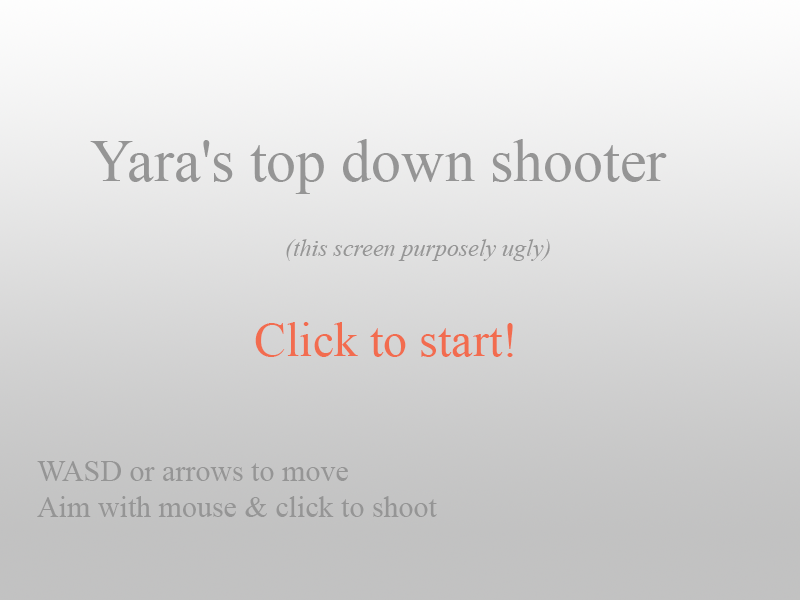
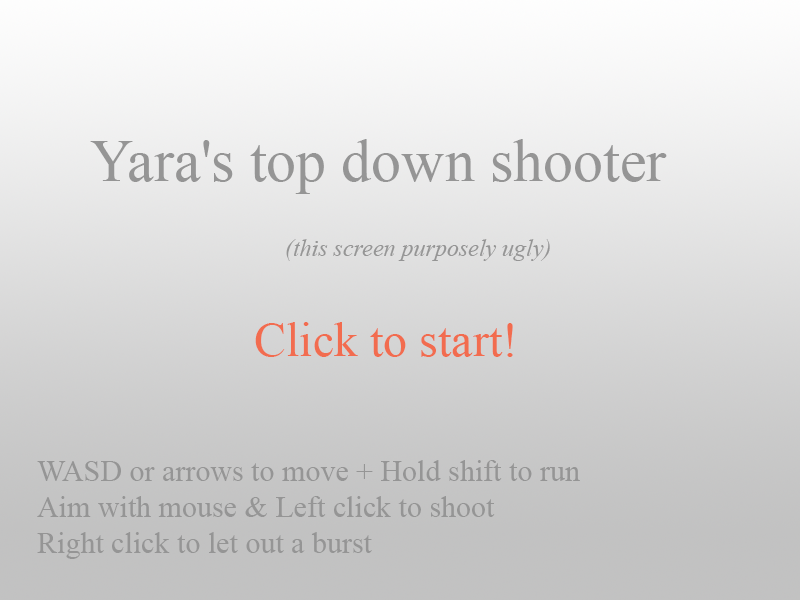
Added Mind Blast spell

Changed region(s): [[0.3438, 0.75, 0.7188, 0.87], [0.0312, 0.9, 0.4688, 0.93]]

diff --git a/js/spell.js b/js/spell.js
@@ -4,47 +4,16 @@
 window.Spell = (function(){
 
 	function Spell(main, game){
-		// Phaser.Sprite.call(this, game, x, y, 'fire1s');
-
 		this.fireRate = 100;
 		this.nextFire = 0;
 		this.cost = 10;
-
 		this.main = main;
-    	// this.anchor.setTo(0.5, 0.5);
-    	// this.game.physics.arcade.enableBody(this);
-    	// this.outOfBoundsKill = true;
-    	// this.checkWorldBounds = true;
-
-    	// Commented out code from when I was trying to use emitters.
-    	// Leaving this here because I still intend to go back to it
-
-		// this.emitter = this.game.add.emitter(0, 0, 100);
-		// this.addChild(this.emitter);
-		// this.emitter.makeParticles(['fire1', 'fire2', 'fire3']);
-		// this.speed = 500;
-		// this.emitter.lifespan = 500;
-		// this.emitter.width = 32;
-		// this.emitter.gravity = 200;
-		// this.emitter.setAlpha(1, 0, 3000);
-		// this.emitter.setScale(0.2, 1, 0.2, 1, 3000);
-		// this.emitter.start(false, 3000, 5);
-
-		// this.emitter.minParticleSpeed = new Phaser.Point(50,50);
-		// this.emitter.maxParticleSpeed = new Phaser.Point(100,50);
-
-		// this.emitter.start(false, 3000, 5);
-
-    	// this.kill();
 	}
-
-	// Spell.prototype = Object.create(Phaser.Sprite.prototype);
-	// Spell.prototype.constructor = Spell;
 
 	//To be overwritten by extended class
 	//This is the specific implementation for each spell. 
 	//For example, the Magic Dart spell will take one shot from its pool and fire it,
-	//while the mind blast spell will have its particle emitter explode
+	//while the Mind Blast spell will have its particle emitter explode
 	Spell.prototype.fireSpell = function(){ }
 
 	//Spell-specific method that checks for collisions, etc
@@ -56,52 +25,12 @@ window.Spell = (function(){
 	//Generic firing method, checks if the spell can be used according to its fire rate then leaves the rest up to the specific implementation
 	//Returns the spell cost if it was successfully cast, and 0 if it failed for one or another reason
 	Spell.prototype.fire = function(x, y){
-		// this.emitter.callAllExists("kill", true);
-		// this.reset(x, y);
-		// 	// this.emitter.at(this);
-
-		// this.rotation = this.game.physics.arcade.moveToPointer(this, 500, this.game.input.activePointer) + Math.PI;
-		// // var vel = this.body.velocity;
-		// var vel = this.game.physics.arcade.velocityFromRotation(this.body.rotation, 500) + this.body.position;
-		// // var vel = new Phaser.Point(this.body.velocity.x, this.body.velocity.y);
-		// // vel += this.position;
-
- 	// 	vel.normalize();
-		// this.emitter.minParticleSpeed = new Phaser.Point(-100*vel.x, -100*vel.y);
-		// this.emitter.maxParticleSpeed = new Phaser.Point(-200*vel.x, -200*vel.y);
-		// this.emitter.start(false, 3000, 5);
-		if(this.main.game.time.now > this.nextFire && this.shots.countDead() > 0){
+		if(this.main.game.time.now > this.nextFire){
 			this.nextFire = this.main.game.time.now + this.fireRate;
 			return (this.fireSpell());
-			// this.shots.getFirstExists(false).fire(this.x, this.y);
-			// this.manaBar.updateValue(-10);
-			// this.updateMana(-10);
-
 		}
 		else return 0;
-
 	}
-
-
-	// Spell.prototype.update = function(){
-		// this.emitter.minParticleSpeed = new Phaser.Point(50,50);
-		// this.emitter.maxParticleSpeed = new Phaser.Point(100,50);
-		// var vel = this.game.physics.arcade.velocityFromRotation(this.rotation, 500) + this.position;
-
-		// // var vel = this.game.physics.arcade.velocityFromRotation(this.body.rotation, 500) + this.body.position;
-		// var vel = this.body.velocity;
-		// this.emitter.setXSpeed(-vel.x*20, -vel.x*30);
-		// this.emitter.setYSpeed(-vel.y*20, -vel.y*30);
-
-		// // this.emitter.setXSpeed(-vel.x, -vel.x*2);
-		// // this.emitter.setYSpeed(-vel.y, -vel.y*2);
-		
-
-		// this.emitter.at(this);
-
-			// this.emitter.minParticleSpeed = new Phaser.Point(50,50);
-		// this.emitter.maxParticleSpeed = new Phaser.Point(100,50);
-	// }
 
 	return Spell;
 

diff --git a/js/mindBlast.js b/js/mindBlast.js
@@ -1,0 +1,55 @@
+"use strict";
+
+//MindBlast class is a quick AoE spell centered around the player
+window.MindBlast = (function(){
+
+	function MindBlast(main, game){
+		Spell.call(this, game);
+
+		this.fireRate = 300;
+		this.nextFire = 0;
+		this.cost = 20;
+		this.speed = 500;
+
+		this.main = main;
+		this.game = game;
+
+		//Create emitter
+		this.emitter = this.game.add.emitter(0, 0, 100);
+		this.emitter.makeParticles(['fire1', 'fire2', 'fire3']);
+		this.emitter.gravity = 0;
+		this.emitter.setAlpha(1, 0, 3000);
+		this.emitter.setScale(0.2, 0.5, 0.2, 0.5, 1000);
+
+		this.emitter.minParticleSpeed = new Phaser.Point(-250,-250);
+		this.emitter.maxParticleSpeed = new Phaser.Point(250,250);
+
+		
+	}
+
+	MindBlast.prototype = Object.create(Spell.prototype);
+	MindBlast.prototype.constructor = MindBlast;
+
+	MindBlast.prototype.fireSpell = function(x, y){
+		this.emitter.x = this.main.player.position.x ;
+		this.emitter.y = this.main.player.position.y ;
+		this.emitter.explode(350, 100);
+		return this.cost;
+	}
+
+	MindBlast.prototype.update = function(){
+		this.game.physics.arcade.collide(this.emitter, this.main.enemies, this.particleHitEnemy, this.main.isEnemyDead, this);
+
+	}
+
+	MindBlast.prototype.particleHitEnemy = function(_part, _enemy){
+		_enemy.fadeout();
+		this.main.score += 3;
+		this.main.updateScore();
+	}
+
+	Spell.prototype.resetGame = function(){ 
+	}
+	return MindBlast;
+
+}());

diff --git a/js/player.js b/js/player.js
@@ -7,9 +7,10 @@ window.Player = (function(){
 		this.main = main;
 		this.shots = shots;
 		this.speed = 200;
-		this.rightSpell;
 		this.magicDart = new MagicDart(this.main, this.game);
+		this.mindBlast = new MindBlast(this.main, this.game);
 		this.leftSpell = this.magicDart;
+		this.rightSpell = this.mindBlast;
 		this.maxMana = 100;
 		this.manaRegenRate = 2;
 		this.mana = this.maxMana;
@@ -43,11 +44,16 @@ window.Player = (function(){
 
         this.rotation = Math.PI/2 + this.game.physics.arcade.angleToPointer(this);
 
-        if(this.game.input.activePointer.isDown){
+        if(this.game.input.activePointer.leftButton.isDown){
         	this.fire(this.leftSpell);
+        }
+        if(this.game.input.activePointer.rightButton.isDown){
+        	this.fire(this.rightSpell);
+        	// console.log("right");
         }
 
         this.leftSpell.update();
+        this.rightSpell.update();
 	}
 
 	Player.prototype.fire = function(spell){

diff --git a/js/main.js b/js/main.js
@@ -48,6 +48,8 @@ app.main = {
 		//Pause game if window loses focus
 		this.game.onBlur.add(function(){this.pauseGame(true);}, this);
 
+		this.game.input.mouse.capture = true;
+
 		//Start world and physics
     	this.game.physics.startSystem(Phaser.Physics.ARCADE);
 		this.game.world.setBounds(0, 0, 2000, 2000);

diff --git a/index.html b/index.html
@@ -8,6 +8,7 @@
 	<script src="js/enemy.js"></script>
     <script src="js/spell.js"></script>
     <script src="js/magicDart.js"></script>
+    <script src="js/mindBlast.js"></script>
     <script src="js/bar.js"></script>
 	<script src="js/loader.js"></script>
 </head>

diff --git a/js/magicDart.js b/js/magicDart.js
@@ -8,7 +8,7 @@ window.MagicDart = (function(){
 
 		this.fireRate = 150;
 		this.nextFire = 0;
-		this.cost = 10;
+		this.cost = 7;
 		this.speed = 500;
 
 		this.main = main;

diff --git a/js/loader.js b/js/loader.js
@@ -5,3 +5,7 @@ window.onload = function(){
 	console.log("window.onload called");
 	app.main.init();
 }
+
+document.oncontextmenu = function(){
+	return false;
+}
